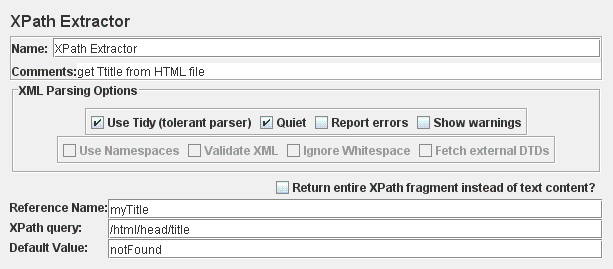
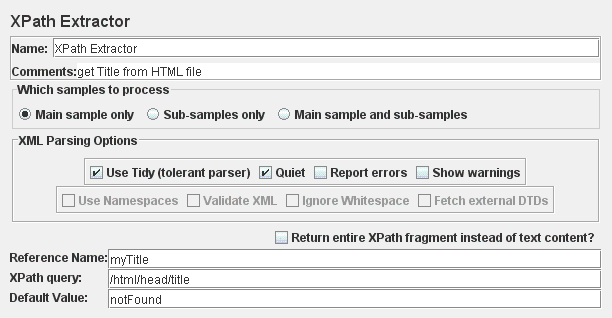
Add Sampler scope selection to XPathExtractor
git-svn-id: https://svn.apache.org/repos/asf/jakarta/jmeter/trunk@905149 13f79535-47bb-0310-9956-ffa450edef68

Former-commit-id: 80d93246eeba309be184d8e3ac903378d9cb181f

Changed region(s): [[0.0, 0.0297, 0.9935, 0.9814]]

diff --git a/src/components/org/apache/jmeter/extractor/XPathExtractor.java b/src/components/org/apache/jmeter/extractor/XPathExtractor.java
@@ -22,6 +22,8 @@ import java.io.IOException;
 import java.io.Serializable;
 import java.io.UnsupportedEncodingException;
 import java.io.StringWriter;
+import java.util.ArrayList;
+import java.util.List;
 
 import javax.xml.parsers.ParserConfigurationException;
 import javax.xml.transform.TransformerException;
@@ -29,7 +31,7 @@ import javax.xml.transform.TransformerException;
 import org.apache.jmeter.assertions.AssertionResult;
 import org.apache.jmeter.processor.PostProcessor;
 import org.apache.jmeter.samplers.SampleResult;
-import org.apache.jmeter.testelement.AbstractTestElement;
+import org.apache.jmeter.testelement.AbstractScopedTestElement;
 import org.apache.jmeter.testelement.property.BooleanProperty;
 import org.apache.jmeter.threads.JMeterContext;
 import org.apache.jmeter.threads.JMeterVariables;
@@ -77,7 +79,7 @@ import javax.xml.transform.stream.StreamResult;
  *
  * See Bugzilla: 37183
  */
-public class XPathExtractor extends AbstractTestElement implements
+public class XPathExtractor extends AbstractScopedTestElement implements
         PostProcessor, Serializable {
     private static final Logger log = LoggingManager.getLoggerForClass();
 
@@ -105,6 +107,10 @@ public class XPathExtractor extends AbstractTestElement implements
         return new StringBuilder(s1).append("_").append(s2).toString(); // $NON-NLS-1$
     }
 
+    private String concat(String s1, int i){
+        return new StringBuilder(s1).append("_").append(i).toString(); // $NON-NLS-1$
+    }
+
     /**
      * Do the job - extract value from (X)HTML response using XPath Query.
      * Return value as variable defined by REFNAME. Returns DEFAULT value
@@ -119,12 +125,42 @@ public class XPathExtractor extends AbstractTestElement implements
         JMeterVariables vars = context.getVariables();
         String refName = getRefName();
         vars.put(refName, getDefaultValue());
-        vars.put(concat(refName,MATCH_NR), "0"); // In case parse fails // $NON-NLS-1$
+        final String matchNR = concat(refName,MATCH_NR);
+        int prevCount=0; // number of previous matches
+        try {
+            prevCount=Integer.parseInt(vars.get(matchNR));
+        } catch (NumberFormatException e) {
+            // ignored
+        }
+        vars.put(matchNR, "0"); // In case parse fails // $NON-NLS-1$
         vars.remove(concat(refName,"1")); // In case parse fails // $NON-NLS-1$
 
+        List<SampleResult> samples = getSampleList(previousResult);
         try{
-            Document d = parseResponse(previousResult);
-            getValuesForXPath(d,getXPathQuery(),vars, refName);
+            List<String> matches = new ArrayList<String>();
+            for (SampleResult res : samples) {
+                Document d = parseResponse(res);
+                getValuesForXPath(d,getXPathQuery(),matches);
+            }
+            final int matchCount = matches.size();
+            vars.put(matchNR, String.valueOf(matchCount));
+            if (matchCount > 0){
+                String value = matches.get(0);
+                if (value != null) {
+                    vars.put(refName, value);
+                }
+                for(int i=0; i < matchCount; i++){
+                    value = matches.get(i);
+                    if (value != null) {
+                        vars.put(concat(refName,i+1),matches.get(i));                    
+                    }
+                }
+            }
+            vars.remove(concat(refName,matchCount+1)); // Just in case
+            // Clear any other remaining variables
+            for(int i=matchCount+2; i <= prevCount; i++) {
+                vars.remove(concat(refName,i));                
+            }
         }catch(IOException e){// e.g. DTD not reachable
             final String errorMessage = "IOException on ("+getXPathQuery()+")";
             log.error(errorMessage,e);
@@ -253,7 +289,6 @@ public class XPathExtractor extends AbstractTestElement implements
     {
       //TODO: validate contentType for reasonable types?
 
-      //TODO: is it really necessary to recode the data?
       // NOTE: responseData encoding is server specific
       //       Therefore we do byte -> unicode -> byte conversion
       //       to ensure UTF-8 encoding as required by XPathUtil
@@ -269,20 +304,20 @@ public class XPathExtractor extends AbstractTestElement implements
 
     /**
      * Extract value from Document d by XPath query.
-     * @param d
-     * @param query
+     * @param d the document
+     * @param query the query to execute
+     * @param matchStrings list of matched strings (may include nulls)
+     * 
      * @throws TransformerException
      */
-    private void getValuesForXPath(Document d,String query, JMeterVariables vars, String refName)
-     throws TransformerException
-    {
+    private void getValuesForXPath(Document d,String query, List<String> matchStrings)
+        throws TransformerException {
         String val = null;
-         XObject xObject = XPathAPI.eval(d, query);
+        XObject xObject = XPathAPI.eval(d, query);
         final int objectType = xObject.getType();
         if (objectType == XObject.CLASS_NODESET) {
             NodeList matches = xObject.nodelist();
             int length = matches.getLength();
-            vars.put(concat(refName,MATCH_NR), String.valueOf(length));
             for (int i = 0 ; i < length; i++) {
                 Node match = matches.item(i);
                 if ( match instanceof Element){
@@ -300,25 +335,16 @@ public class XPathExtractor extends AbstractTestElement implements
                 } else {
                    val = match.getNodeValue();
                 }
-                if ( val!=null){
-                    if (i==0) {// Treat 1st match specially
-                        vars.put(refName,val);
-                    }
-                    vars.put(concat(refName,String.valueOf(i+1)),val);
-                }
+                matchStrings.add(val);
             }
-            vars.remove(concat(refName,String.valueOf(length+1)));
         } else if (objectType == XObject.CLASS_NULL
                 || objectType == XObject.CLASS_UNKNOWN
                 || objectType == XObject.CLASS_UNRESOLVEDVARIABLE) {
             log.warn("Unexpected object type: "+xObject.getTypeString()+" returned for: "+getXPathQuery());
-         } else {
+        } else {
             val = xObject.toString();
-            vars.put(concat(refName, MATCH_NR), "1");
-            vars.put(refName, val);
-            vars.put(concat(refName, "1"), val);
-            vars.remove(concat(refName, "2"));
-        }
+            matchStrings.add(val);
+      }
     }
 
     public void setWhitespace(boolean selected) {

diff --git a/test/src/org/apache/jmeter/extractor/TestXPathExtractor.java b/test/src/org/apache/jmeter/extractor/TestXPathExtractor.java
@@ -19,6 +19,8 @@
 package org.apache.jmeter.extractor;
 
 
+import java.io.UnsupportedEncodingException;
+
 import junit.framework.TestCase;
 
 import org.apache.jmeter.samplers.SampleResult;
@@ -31,6 +33,8 @@ public class TestXPathExtractor extends TestCase {
 
         private SampleResult result;
 
+        private String data;
+        
         private JMeterVariables vars;
 
         public TestXPathExtractor(String name) {
@@ -42,15 +46,15 @@ public class TestXPathExtractor extends TestCase {
         private final static String VAL_NAME = "value";
         private final static String VAL_NAME_NR = "value_matchNr";
         @Override
-        public void setUp() {
+        public void setUp() throws UnsupportedEncodingException {
             jmctx = JMeterContextService.getContext();
             extractor = new XPathExtractor();
             extractor.setThreadContext(jmctx);// This would be done by the run command
             extractor.setRefName(VAL_NAME);
             extractor.setDefaultValue("Default");
             result = new SampleResult();
-            String data = "<book><preface title='Intro'>zero</preface><page>one</page><page>two</page><empty></empty><a><b></b></a></book>";
-            result.setResponseData(data.getBytes());
+            data = "<book><preface title='Intro'>zero</preface><page>one</page><page>two</page><empty></empty><a><b></b></a></book>";
+            result.setResponseData(data.getBytes("UTF-8"));
             vars = new JMeterVariables();
             jmctx.setVariables(vars);
             jmctx.setPreviousResult(result);
@@ -148,6 +152,56 @@ public class TestXPathExtractor extends TestCase {
             extractor.setXPathQuery("//a");
             extractor.process();
             assertEquals("<a><b/></a>", vars.get(VAL_NAME));
+        }
+
+        public void testScope(){
+            extractor.setXPathQuery("/book/preface");
+            extractor.process();
+            assertEquals("zero", vars.get(VAL_NAME));
+            assertEquals("1", vars.get(VAL_NAME_NR));
+            assertEquals("zero", vars.get(VAL_NAME+"_1"));
+            assertNull(vars.get(VAL_NAME+"_2"));            
+
+            extractor.setScopeChildren(); // There aren't any
+            extractor.process();
+            assertEquals("Default", vars.get(VAL_NAME));
+            assertEquals("0", vars.get(VAL_NAME_NR));
+            assertNull(vars.get(VAL_NAME+"_1"));
+
+            extractor.setScopeAll(); // same as Parent
+            extractor.process();
+            assertEquals("zero", vars.get(VAL_NAME));
+            assertEquals("1", vars.get(VAL_NAME_NR));
+            assertEquals("zero", vars.get(VAL_NAME+"_1"));
+            assertNull(vars.get(VAL_NAME+"_2"));            
+
+            // Try to get data from subresult
+            result.sampleStart(); // Needed for addSubResult()
+            result.sampleEnd();
+            SampleResult subResult = new SampleResult();
+            subResult.sampleStart();
+            subResult.setResponseData(result.getResponseData());
+            subResult.sampleEnd();
+            result.addSubResult(subResult);
+            
+            
+            // Get data from both
+            extractor.setScopeAll();
+            extractor.process();
+            assertEquals("zero", vars.get(VAL_NAME));
+            assertEquals("2", vars.get(VAL_NAME_NR));
+            assertEquals("zero", vars.get(VAL_NAME+"_1"));
+            assertEquals("zero", vars.get(VAL_NAME+"_2"));
+            assertNull(vars.get(VAL_NAME+"_3"));
+
+            // get data from child
+            extractor.setScopeChildren();
+            extractor.process();
+            assertEquals("zero", vars.get(VAL_NAME));
+            assertEquals("1", vars.get(VAL_NAME_NR));
+            assertEquals("zero", vars.get(VAL_NAME+"_1"));
+            assertNull(vars.get(VAL_NAME+"_2"));
+            
         }
 
         public void testInvalidXpath() throws Exception {

diff --git a/src/components/org/apache/jmeter/extractor/gui/XPathExtractorGui.java b/src/components/org/apache/jmeter/extractor/gui/XPathExtractorGui.java
@@ -44,16 +44,21 @@ public class XPathExtractorGui extends AbstractPostProcessorGui {
 
     private static final long serialVersionUID = 240L;
 
-    private JLabeledTextField defaultField;
+    private final JLabeledTextField defaultField = 
+        new JLabeledTextField(JMeterUtils.getResString("default_value_field"));//$NON-NLS-1$
 
-    private JLabeledTextField xpathQueryField;
+    private final JLabeledTextField xpathQueryField = 
+        new JLabeledTextField(JMeterUtils.getResString("xpath_extractor_query"));//$NON-NLS-1$
 
-    private JLabeledTextField refNameField;
+    private final JLabeledTextField refNameField = 
+        new JLabeledTextField(JMeterUtils.getResString("ref_name_field"));//$NON-NLS-1$
 
-    private JCheckBox getFragment; // Should we return fragment as text, rather than text of fragment?
+    // Should we return fragment as text, rather than text of fragment?
+    private final JCheckBox getFragment = 
+        new JCheckBox(JMeterUtils.getResString("xpath_extractor_fragment"));//$NON-NLS-1$
     
-    private XMLConfPanel xml;
-    
+    private final XMLConfPanel xml = new XMLConfPanel();
+
     public String getLabelResource() {
         return "xpath_extractor_title"; //$NON-NLS-1$
     }
@@ -67,6 +72,7 @@ public class XPathExtractorGui extends AbstractPostProcessorGui {
     public void configure(TestElement el) {
         super.configure(el);
         XPathExtractor xpe = (XPathExtractor) el;
+        showScopeSettings(xpe);
         xpathQueryField.setText(xpe.getXPathQuery());
         defaultField.setText(xpe.getDefaultValue());
         refNameField.setText(xpe.getRefName());
@@ -85,6 +91,7 @@ public class XPathExtractorGui extends AbstractPostProcessorGui {
         super.configureTestElement(extractor);
         if ( extractor instanceof XPathExtractor){
             XPathExtractor xpath = (XPathExtractor)extractor;
+            saveScopeSettings(xpath);
             xpath.setDefaultValue(defaultField.getText());
             xpath.setRefName(refNameField.getText());
             xpath.setXPathQuery(xpathQueryField.getText());
@@ -112,11 +119,10 @@ public class XPathExtractorGui extends AbstractPostProcessorGui {
 
         Box box = Box.createVerticalBox();
         box.add(makeTitlePanel());
-        xml = new XMLConfPanel();
+        box.add(createScopePanel());
         xml.setBorder(BorderFactory.createTitledBorder(BorderFactory.createEtchedBorder(), JMeterUtils
                 .getResString("xpath_assertion_option"))); //$NON-NLS-1$
         box.add(xml);
-        getFragment = new JCheckBox(JMeterUtils.getResString("xpath_extractor_fragment"));//$NON-NLS-1$
         box.add(getFragment);
         box.add(makeParameterPanel());
         add(box, BorderLayout.NORTH);
@@ -124,10 +130,6 @@ public class XPathExtractorGui extends AbstractPostProcessorGui {
 
 
     private JPanel makeParameterPanel() {
-        xpathQueryField = new JLabeledTextField(JMeterUtils.getResString("xpath_extractor_query"));//$NON-NLS-1$
-        defaultField = new JLabeledTextField(JMeterUtils.getResString("default_value_field"));//$NON-NLS-1$
-        refNameField = new JLabeledTextField(JMeterUtils.getResString("ref_name_field"));//$NON-NLS-1$
-
         JPanel panel = new JPanel(new GridBagLayout());
         GridBagConstraints gbc = new GridBagConstraints();
         initConstraints(gbc);

diff --git a/src/core/org/apache/jmeter/testelement/AbstractScopedTestElement.java b/src/core/org/apache/jmeter/testelement/AbstractScopedTestElement.java
@@ -18,6 +18,11 @@
 
 package org.apache.jmeter.testelement;
 
+import java.util.ArrayList;
+import java.util.List;
+
+import org.apache.jmeter.samplers.SampleResult;
+
 /**
  * <p>
  * Super-class for TestElements that can be applied to main sample, sub-samples or both.
@@ -93,5 +98,27 @@ public abstract class AbstractScopedTestElement extends AbstractTestElement {
 
     public void setScopeAll() {
         setProperty(SCOPE, SCOPE_ALL);
+    }
+
+    /**
+     * Generate a list of qualifying sample results,
+     * depending on the scope.
+     * 
+     * @param result current sample
+     * @return list containing the current sample and/or its child samples
+     */
+    protected List<SampleResult> getSampleList(SampleResult result) {
+        List<SampleResult> sampleList = new ArrayList<SampleResult>();
+    
+        String scope = fetchScope();
+        if (isScopeParent(scope) || isScopeAll(scope)) {
+            sampleList.add(result);
+        }
+        if (isScopeChildren(scope) || isScopeAll(scope)) {
+            for (SampleResult subResult : result.getSubResults()) {
+                sampleList.add(subResult);
+            }
+        }
+        return sampleList;
     }
 }

diff --git a/src/components/org/apache/jmeter/extractor/gui/RegexExtractorGui.java b/src/components/org/apache/jmeter/extractor/gui/RegexExtractorGui.java
@@ -32,6 +32,7 @@ import javax.swing.JRadioButton;
 
 import org.apache.jmeter.extractor.RegexExtractor;
 import org.apache.jmeter.processor.gui.AbstractPostProcessorGui;
+import org.apache.jmeter.testelement.AbstractScopedTestElement;
 import org.apache.jmeter.testelement.TestElement;
 import org.apache.jmeter.util.JMeterUtils;
 import org.apache.jorphan.gui.JLabeledTextField;
@@ -99,7 +100,7 @@ public class RegexExtractorGui extends AbstractPostProcessorGui {
      * @see org.apache.jmeter.gui.JMeterGUIComponent#createTestElement()
      */
     public TestElement createTestElement() {
-        RegexExtractor extractor = new RegexExtractor();
+        AbstractScopedTestElement extractor = new RegexExtractor();
         modifyTestElement(extractor);
         return extractor;
     }

diff --git a/src/components/org/apache/jmeter/extractor/RegexExtractor.java b/src/components/org/apache/jmeter/extractor/RegexExtractor.java
@@ -177,17 +177,7 @@ public class RegexExtractor extends AbstractScopedTestElement implements PostPro
     }
     
     private List<MatchResult> processMatches(String regex, SampleResult result, int matchNumber) {
-        List<SampleResult> sampleList = new ArrayList<SampleResult>();
-
-        String scope = fetchScope();
-        if (isScopeParent(scope) || isScopeAll(scope)) {
-            sampleList.add(result);
-        }
-        if (isScopeChildren(scope) || isScopeAll(scope)) {
-            for (SampleResult subResult : result.getSubResults()) {
-                sampleList.add(subResult);
-            }
-        }
+        List<SampleResult> sampleList = getSampleList(result);
 
         if (log.isDebugEnabled()) {
             log.debug("Regex = " + regex);
